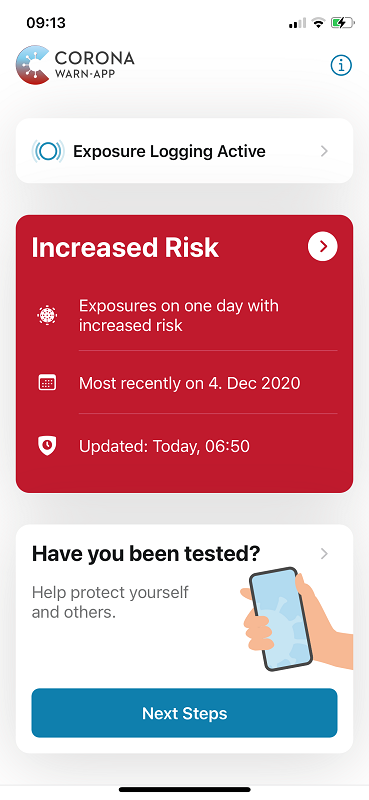
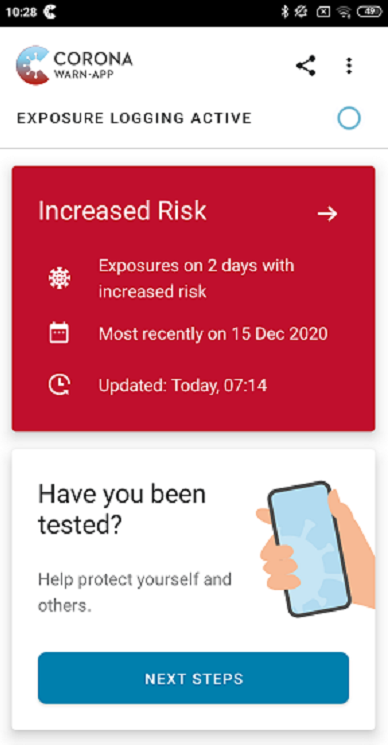
Update blogpost 1 9 (#703)
* updated images in blog post about release 1.9

* added English screenshot in blogpost

diff --git a/blog/2020-12-16-cwa-release-1-9/index.md b/blog/2020-12-16-cwa-release-1-9/index.md
@@ -18,7 +18,7 @@ If a user had multiple encounters with a high risk (red), he or she will see the
 
 <br></br>
 
-<center> <img src="./cwa-high-risk-screenshot-en.jpg" title="Corona-Warn-App Low Risk" style="align: center"> </center>
+<center> <img src="./cwa-low-risk-screenshot-en.jpg" title="Corona-Warn-App Low Risk" style="align: center"> </center><center> <img src="./cwa-high-risk-screenshot-en.jpg" title="Corona-Warn-App High Risk" style="align: center"> </center>
 
 <br></br>
 
